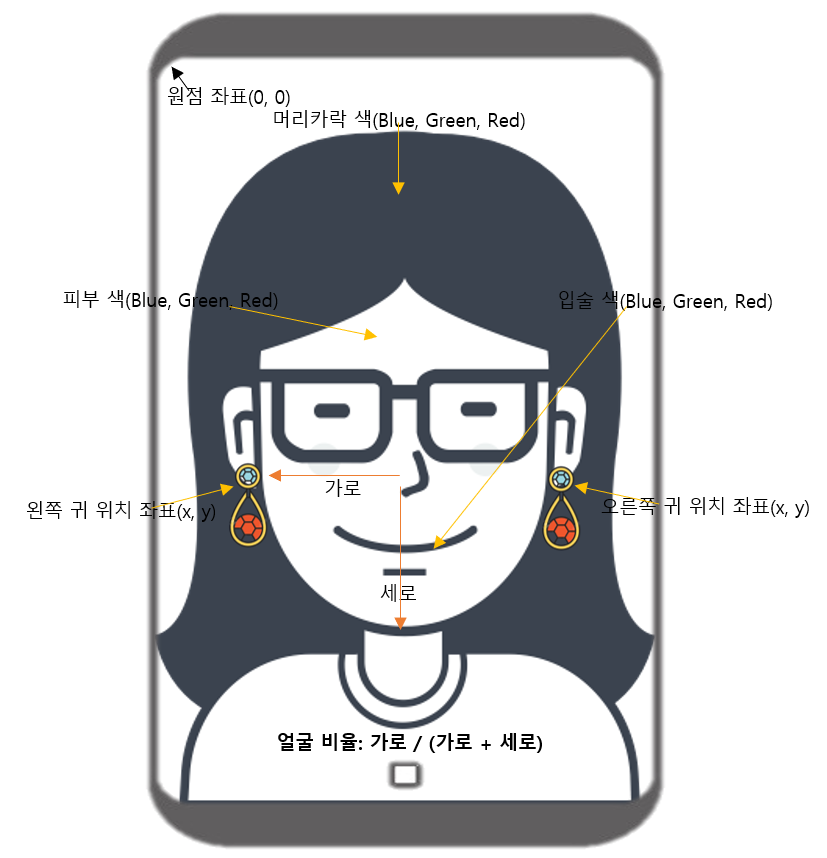
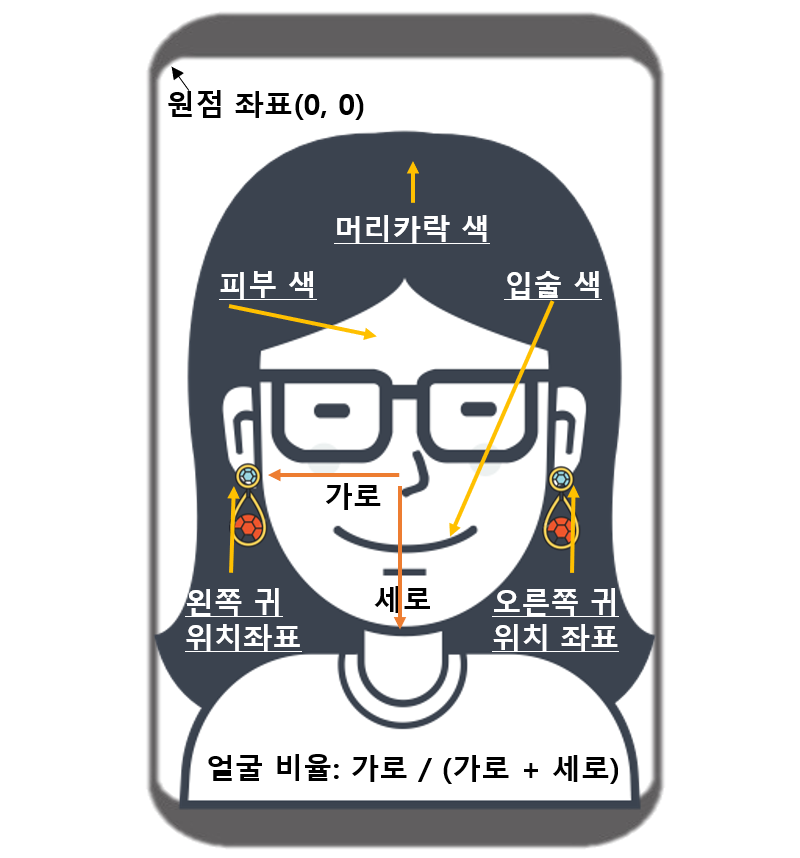
Update input-output table

diff --git a/StyleAR/README.md b/StyleAR/README.md
@@ -26,7 +26,7 @@
     |목차|입력|비고||목차|출력|비고|
     |:-:|:-:|:-:|:-:|:-:|:-:|:-:|:-:|
     |얼굴영상|![styleAR result](./img/faceInput.png){: width="500"}|얼굴이 사진의 40%이상 차지 해야 함||결과영상|![styleAR result](./img/faceOutput.png){: width="500"}|귀걸이가 실측크기에 맞게 배치 됨|
-    |귀걸이 사진|![styleAR result](./img/input_1.png){: width="500"}|● 영상편집 시 귀걸이 위와 아래의 공백을 최대한 작게<br />● 영상은 귀걸이를 제외한 배경은 투명처리(png 포멧)||메타데이터|![deepixel.xyz](./img/meta_info.png){: width="700"}|● 얼굴비율[가로: 코에서 턱, 세로: 코에서 귀]: 가로 /(가로 + 세로) {범위:0 ~ 1}<br />● 피부, 입술, 머리카락 색상: BGR순서로 색상정보가 출력 {범위:0 ~ 255}|
+    |귀걸이 사진|![styleAR result](./img/input_1.png){: width="500"}|● 영상편집 시 귀걸이 위와 아래의 공백을 최대한 작게<br />● 영상은 귀걸이를 제외한 배경은 투명처리(png 포멧)||메타데이터|![deepixel.xyz](./img/meta_info.png){: width="700"}|● 얼굴비율[가로: 코에서 턱, 세로: 코에서 귀]: 가로 /(가로 + 세로) {범위:0 ~ 1}<br />● 피부, 입술, 머리카락 색상: BGR순서로 색상정보가 출력 {범위:0 ~ 255}<br />● 귀 위치: 스크린의 원점을 기준으로 x, y 좌표|
     |귀걸이 크기|귀걸이 실측 가로, 세로 크기|단위(mm)|||||
 
 ***
